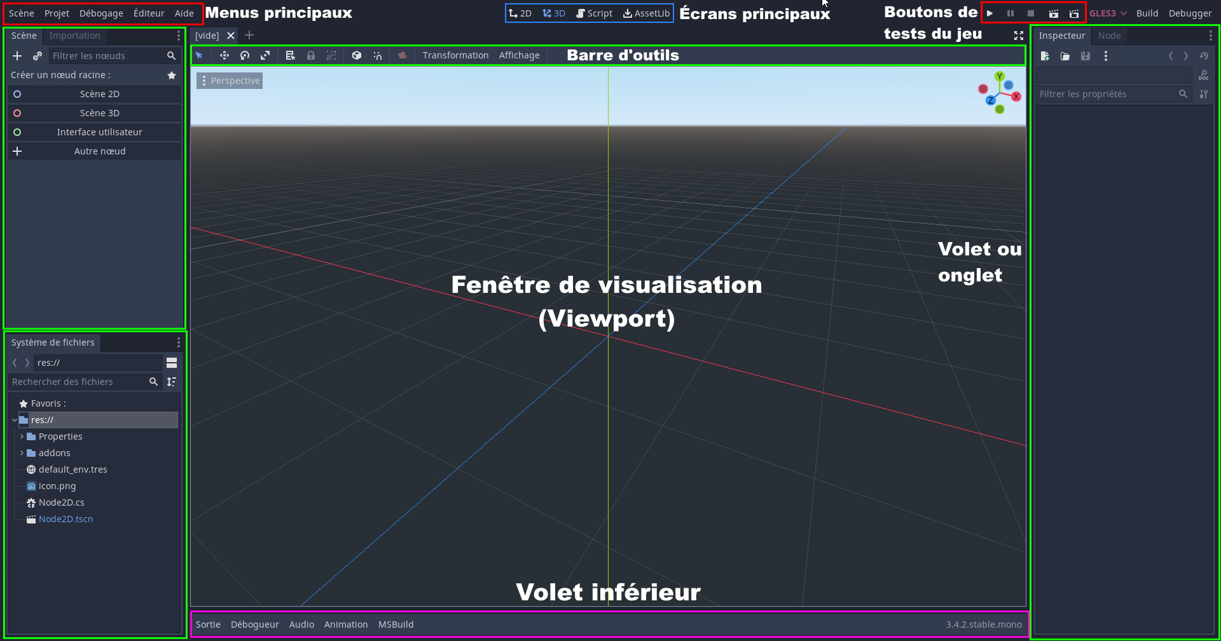
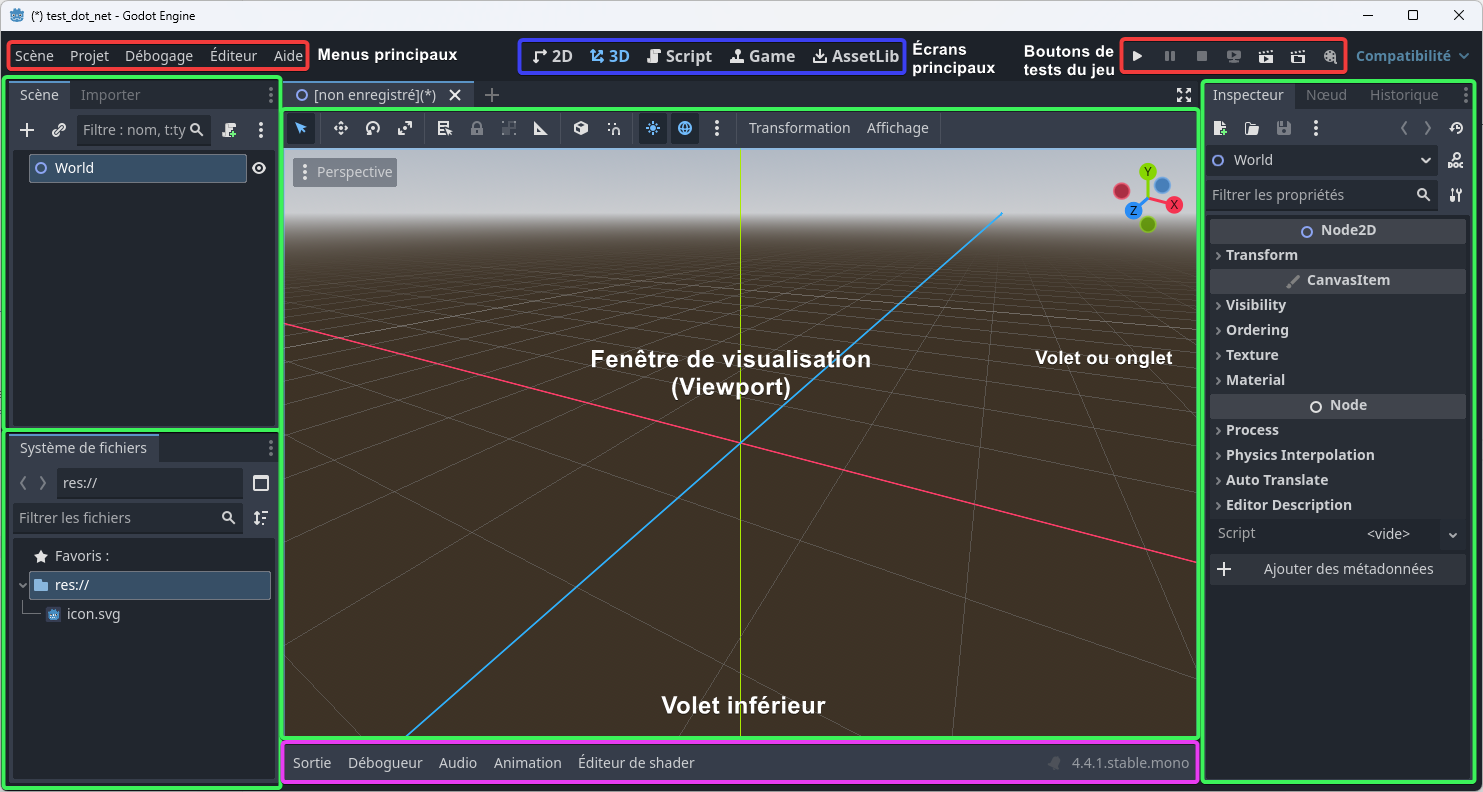
wip : update 4.4

diff --git a/c04_godot/readme.md b/c04_godot/readme.md
@@ -63,8 +63,6 @@ Apprendre les rudiments de l’environnement de développement Godot.
   - [Attention :](#attention-)
   - [Exercice](#exercice-2)
 
-
-
 ---
 
 # Plan de leçon
@@ -81,9 +79,9 @@ Apprendre les rudiments de l’environnement de développement Godot.
 - Le langage de base est le `GDScript` qui est un pseudo-python mais pour alléger la charge cognitive nous allons utiliser le langage C# pour les premiers cours.
 - J’utiliserai l’interface en anglais pour faciliter la recherche de ressources.
 - Vous pouvez utiliser la langue qui vous convient.
-- Au moment de réviser ces notes j’utilisais la version 4.3 avec C# Mono.
+- Au moment de réviser ces notes j’utilisais la version 4.4 avec C# Mono.
 - Je vous invite à regarder les séries de vidéos suivantes :
-  - [Mes vidéos](https://youtu.be/D89lwa1TZ5c?si=Lb6ZWMvspNOkuoea) sur Godot (Attention! Certaines datent de l’ancienne version)
+  - [Mes vidéos](https://youtu.be/D89lwa1TZ5c?si=Lb6ZWMvspNOkuoea) sur Godot (Attention! Certaines datent d'ancienne version)
 
 ---
 
@@ -99,7 +97,7 @@ Apprendre les rudiments de l’environnement de développement Godot.
   - Rechercher des projets dans un dossier (Scan)
   - Importer un projet
   - Effectuer d’autres opérations sur des projets
-- Pour modifier la langue, il suffit de cliquer sur le bouton dans le coin supérieur droit avec une icône de globe.
+- Pour modifier la langue, il suffit de cliquer sur le bouton dans le coin supérieur droit où il est inscrit "Settings"
 
 ---
 
@@ -174,13 +172,14 @@ Apprendre les rudiments de l’environnement de développement Godot.
 - L’environnement **2D** sert principalement pour le… 2D et les interfaces.
 - L’environnement **3D** sert à travailler avec les meshes, l’éclairage, et le design de niveau pour les jeux 3D.
 - L’environnement **Script** est un éditeur de code complet avec un débogueur.
+- L'environnement **Game** permet de visualiser le jeu directement dans l'environnement pour faire des tests rapides.
 - L’environnement **AssetLib** est une librairie de ressources telles que des scripts, des images, des add-ons, etc.
 
 ---
 
 # Scènes et nœuds
 
-- [Documentation officielle](https://docs.godotengine.org/en/stable/getting_started/step_by_step/scenes_and_nodes.html)
+- [Documentation officielle](https://docs.godotengine.org/fr/4.x/getting_started/step_by_step/nodes_and_scenes.html)
 - Ma vidéo [Débuter avec Godot 4](https://www.youtube.com/watch?v=D89lwa1TZ5c)
 - Godot fonctionne sous le concept de **scènes** et **nœuds**.
 
